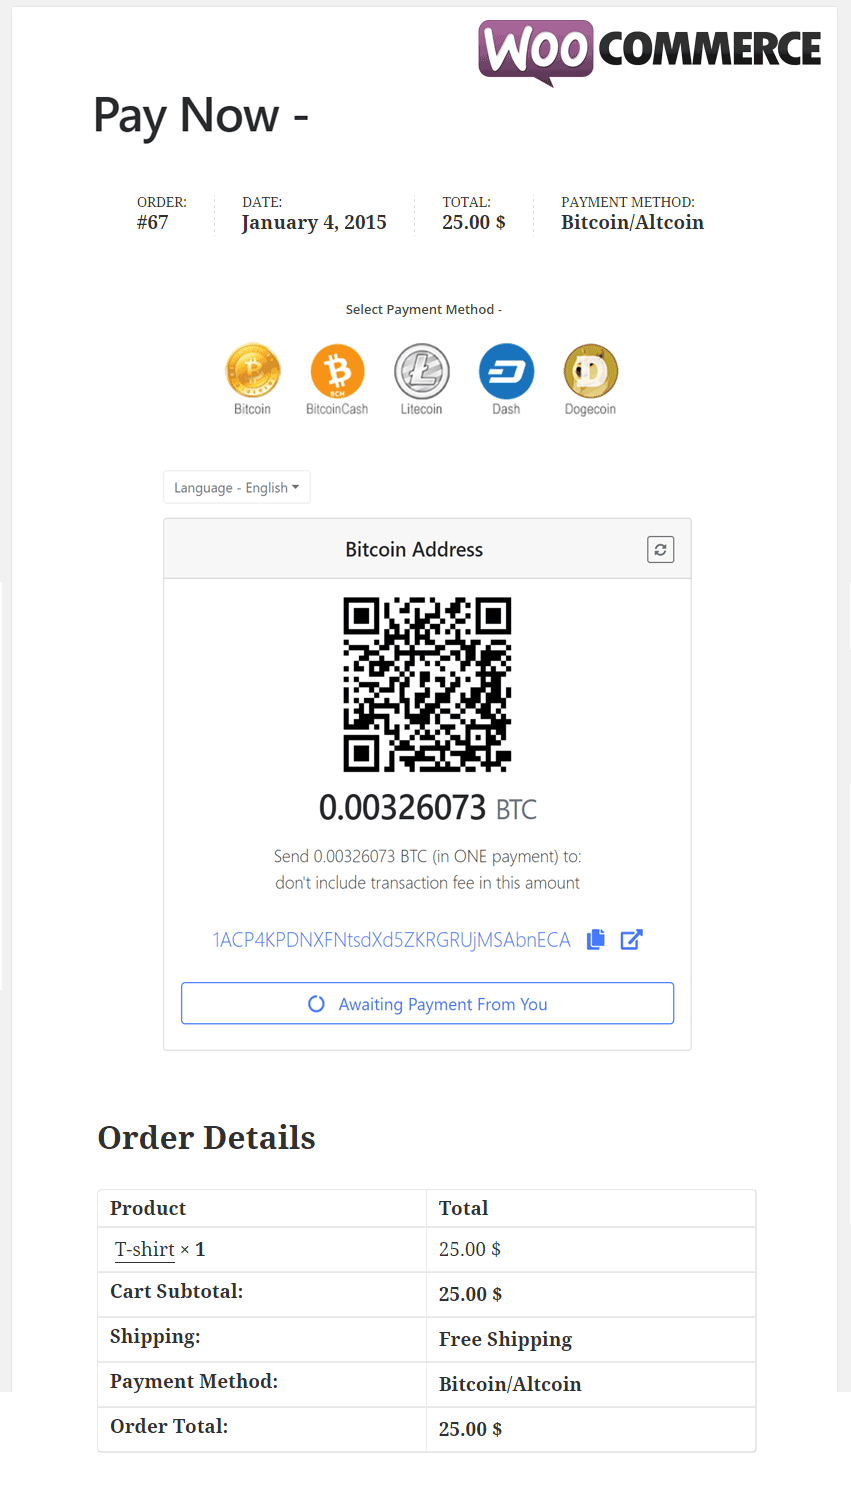
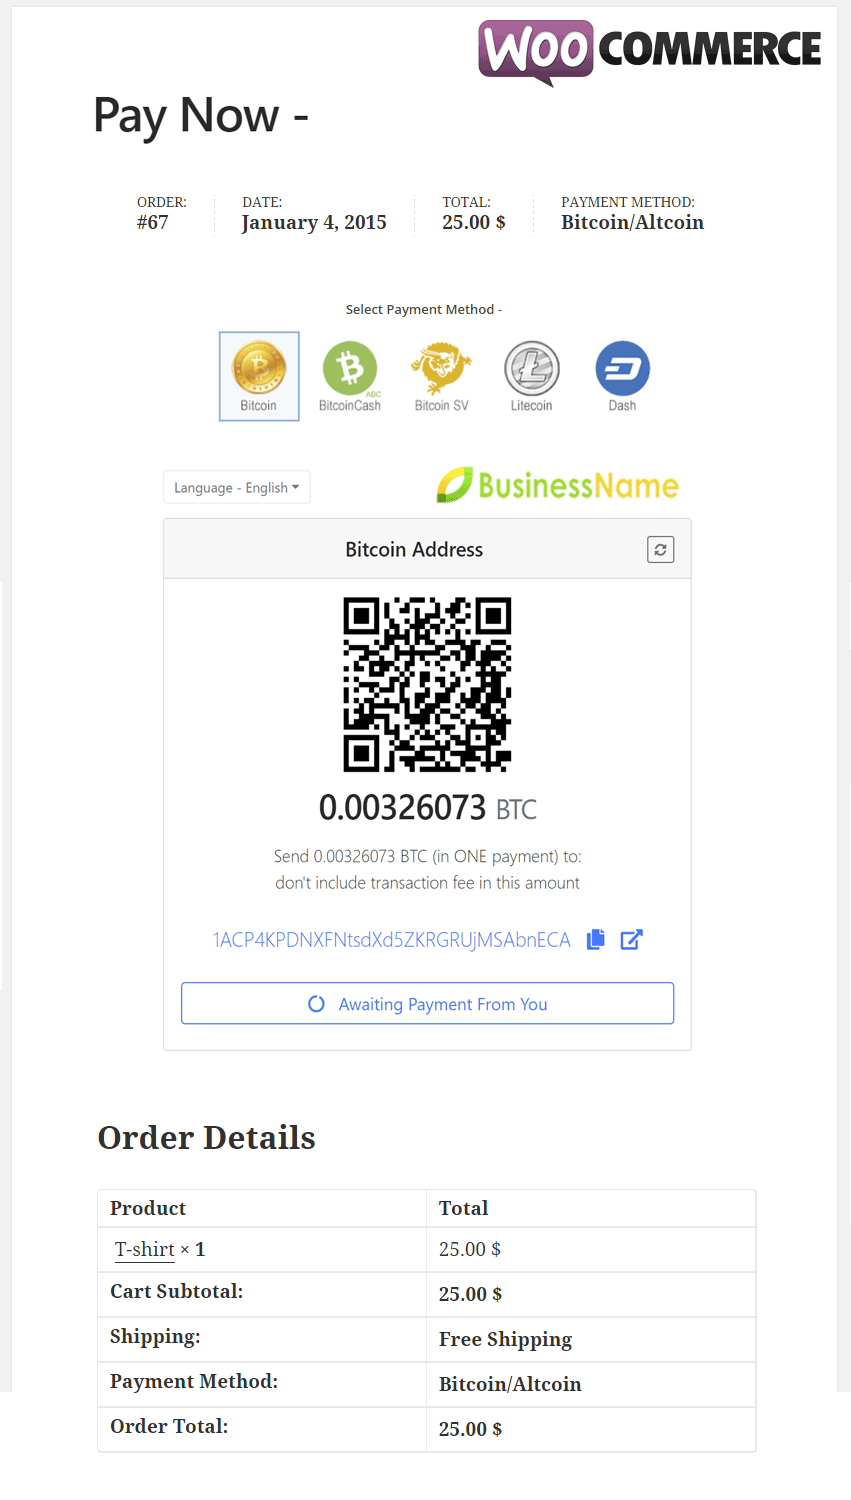
ver 1.2.5
Added Bitcoin SV (BSV/BCHSV). Tested on Wordpress 5.0. Recommended Update

Changed region(s): [[0.2444, 0.2147, 0.7638, 0.276], [0.5194, 0.3067, 0.7944, 0.3373]]

diff --git a/gourl-woocommerce.php b/gourl-woocommerce.php
@@ -2,8 +2,8 @@
 /*
 Plugin Name: 		GoUrl WooCommerce - Bitcoin Altcoin Payment Gateway Addon. White Label Solution
 Plugin URI: 		https://gourl.io/bitcoin-payments-woocommerce.html
-Description: 		Provides a <a href="https://gourl.io">GoUrl.io</a> Bitcoin/Altcoin Payment Gateway for <a href="https://wordpress.org/plugins/woocommerce/">WooCommerce 2.1+</a>. Support product prices in USD/EUR/etc and in Bitcoin/Altcoins directly; sends the amount straight to your business Bitcoin/Altcoin wallet. Convert your USD/EUR/etc prices to cryptocoins using Google/Poloniex Exchange Rates. Direct Integration on your website, no external payment pages opens (as other payment gateways offer). Accept Bitcoin, BitcoinCash, Litecoin, Dash, Dogecoin, Speedcoin, Reddcoin, Potcoin, Feathercoin, Vertcoin, Peercoin, MonetaryUnit payments online. You will see the bitcoin/altcoin payment statistics in one common table on your website. No Chargebacks, Global, Secure. All in automatic mode.
-Version: 			1.2.4
+Description: 		Provides a <a href="https://gourl.io">GoUrl.io</a> Bitcoin/Altcoin Payment Gateway for <a href="https://wordpress.org/plugins/woocommerce/">WooCommerce 2.1+</a>. Support product prices in USD/EUR/etc and in Bitcoin/Altcoins directly; sends the amount straight to your business Bitcoin/Altcoin wallet. Convert your USD/EUR/etc prices to cryptocoins using Google/Poloniex Exchange Rates. Direct Integration on your website, no external payment pages opens (as other payment gateways offer). Accept Bitcoin, BitcoinCash, BitcoinSV, Litecoin, Dash, Dogecoin, Speedcoin, Reddcoin, Potcoin, Feathercoin, Vertcoin, Peercoin, MonetaryUnit payments online. You will see the bitcoin/altcoin payment statistics in one common table on your website. No Chargebacks, Global, Secure. All in automatic mode.
+Version: 			1.2.5
 Author: 			GoUrl.io
 Author URI: 		https://gourl.io
 WC requires at least: 	2.1.0
@@ -21,7 +21,7 @@ if (!function_exists('gourl_wc_gateway_load') && !function_exists('gourl_wc_acti
 
 
 	DEFINE('GOURLWC', 'gourl-woocommerce');
-	DEFINE('GOURLWC_2WAY', json_encode(array("BTC", "BCH", "LTC", "DASH", "DOGE")));
+	DEFINE('GOURLWC_2WAY', json_encode(array("BTC", "BCH", "BSV", "LTC", "DASH", "DOGE")));
 
 
 	if (!defined('GOURLWC_AFFILIATE_KEY'))
@@ -151,6 +151,7 @@ if (!function_exists('gourl_wc_gateway_load') && !function_exists('gourl_wc_acti
 
 	            __( 'Bitcoin', GOURLWC );
 	            __( 'Bitcoincash', GOURLWC );
+	            __( 'Bitcoinsv', GOURLWC );
 	            __( 'Litecoin', GOURLWC );
 	            __( 'Doge', GOURLWC );
 	            __( 'DASH', GOURLWC ); // use in translation
@@ -162,7 +163,7 @@ if (!function_exists('gourl_wc_gateway_load') && !function_exists('gourl_wc_acti
 	            foreach ($arr2 as $k2 => $v2)
 	                foreach ($arr as $k => $v)
 	                    if (in_array($k, json_decode(GOURLWC_2WAY, true)))
-	                        $currencies[$k2.$k] = sprintf(__( '&#9658; Admin use %s, Users see LIVE prices in %s', GOURLWC ), ucwords($v2), str_replace("Bitcoincash", "Bitcoin Cash", ucwords($v)));
+	                        $currencies[$k2.$k] = sprintf(__( '&#9658; Admin use %s, Users see LIVE prices in %s', GOURLWC ), ucwords($v2), ucwords(str_ireplace("Bitcoin", "Bitcoin ", $v)));
 
 	    }
 
@@ -175,7 +176,7 @@ if (!function_exists('gourl_wc_gateway_load') && !function_exists('gourl_wc_acti
 
 
 	/*
-	 *  4. You set product prices in USD/EUR/etc in the admin panel, and display those prices in Cryptocurrency (Bitcoin, LTC, BCH, DASH, DOGE)  for front-end users
+	 *  4. You set product prices in USD/EUR/etc in the admin panel, and display those prices in Cryptocurrency (Bitcoin, BCH, BSV, LTC, DASH, DOGE)  for front-end users
 	 *  Admin user - if current_user_can('manage_options') return true
 	*/
 	function gourl_wc_currency_type( $currency = "" )
@@ -295,7 +296,7 @@ if (!function_exists('gourl_wc_gateway_load') && !function_exists('gourl_wc_acti
             }
             else
             {
-                // Get Altcoins Live Rates to BTC - DASH/BTC, LTC/BTC, BCH/BTC
+                // Get Altcoins Live Rates to BTC - DASH/BTC, LTC/BTC, BCH/BTC, BSV/BTC
                 if (!isset($rates[$v]) || !$rates[$v]) $rates[$v] = gourl_altcoin_btc_price ($v);
 
                 $priceAlt = 0;
@@ -339,9 +340,9 @@ if (!function_exists('gourl_wc_gateway_load') && !function_exists('gourl_wc_acti
             elseif (function_exists('get_woocommerce_currency'))
             {
                 $currency = $arr["user"]; // user visible currency
-                if (in_array($currency, array("BTC", "BCH", "DASH")) && !in_array($decimals, array(3,4))) $decimals = 4;
-                if (in_array($currency, array("LTC")) && !in_array($decimals, array(2,3)))                $decimals = 3;
-                if (in_array($currency, array("DOGE")) && !in_array($decimals, array(0)))                 $decimals = 0;
+                if (in_array($currency, array("BTC", "BCH", "BSV", "DASH")) && !in_array($decimals, array(3,4))) $decimals = 4;
+                if (in_array($currency, array("LTC")) && !in_array($decimals, array(2,3)))                       $decimals = 3;
+                if (in_array($currency, array("DOGE")) && !in_array($decimals, array(0)))                        $decimals = 0;
             }
         }
 
@@ -629,7 +630,7 @@ if (!function_exists('gourl_wc_gateway_load') && !function_exists('gourl_wc_acti
 
 		private $payments           = array();
 		private $languages          = array();
-		private $coin_names         = array('BTC' => 'bitcoin', 'BCH' => 'bitcoincash', 'LTC' => 'litecoin', 'DASH' => 'dash', 'DOGE' => 'dogecoin', 'SPD' => 'speedcoin', 'RDD' => 'reddcoin', 'POT' => 'potcoin', 'FTC' => 'feathercoin', 'VTC' => 'vertcoin', 'PPC' => 'peercoin', 'UNIT' => 'universalcurrency', 'MUE' => 'monetaryunit');
+		private $coin_names         = array('BTC' => 'bitcoin', 'BCH' => 'bitcoincash', 'BSV' => 'bitcoinsv', 'LTC' => 'litecoin', 'DASH' => 'dash', 'DOGE' => 'dogecoin', 'SPD' => 'speedcoin', 'RDD' => 'reddcoin', 'POT' => 'potcoin', 'FTC' => 'feathercoin', 'VTC' => 'vertcoin', 'PPC' => 'peercoin', 'UNIT' => 'universalcurrency', 'MUE' => 'monetaryunit');
 		private $statuses           = array('processing' => 'Processing Payment', 'on-hold' => 'On Hold', 'completed' => 'Completed');
 		private $cryptorices        = array();
 		private $showhidemenu       = array('show' => 'Show Menu', 'hide' => 'Hide Menu');
@@ -639,7 +640,7 @@ if (!function_exists('gourl_wc_gateway_load') && !function_exists('gourl_wc_acti
 		private $url3               = '';
 		private $cointxt            = '';
 
-		private $logo               = '';
+		private $logo               =  0;
 		private $emultiplier        = '';
 		private $ostatus            = '';
 		private $ostatus2           = '';
@@ -675,9 +676,9 @@ if (!function_exists('gourl_wc_gateway_load') && !function_exists('gourl_wc_acti
 
 			if (class_exists('gourlclass') && defined('GOURL') && defined('GOURL_ADMIN') && is_object($gourl))
 			{
-				if (true === version_compare(GOURL_VERSION, '1.4.12', '<'))
+				if (true === version_compare(GOURL_VERSION, '1.4.15', '<'))
 				{
-					if ($enabled) $this->method_description .= '<div class="error"><p><b>' .sprintf(__( "Your GoUrl Bitcoin Gateway <a href='%s'>Main Plugin</a> version is too old. Requires 1.4.12 or higher version. Please <a href='%s'>update</a> to latest version.", GOURLWC ), GOURL_ADMIN.GOURL, $this->mainplugin_url)."</b> &#160; &#160; &#160; &#160; " .
+					if ($enabled) $this->method_description .= '<div class="error"><p><b>' .sprintf(__( "Your GoUrl Bitcoin Gateway <a href='%s'>Main Plugin</a> version is too old. Requires 1.4.15 or higher version. Please <a href='%s'>update</a> to latest version.", GOURLWC ), GOURL_ADMIN.GOURL, $this->mainplugin_url)."</b> &#160; &#160; &#160; &#160; " .
 							  __( 'Information', GOURLWC ) . ": &#160; <a href='https://gourl.io/bitcoin-wordpress-plugin.html'>".__( 'Main Plugin Homepage', GOURLWC )."</a> &#160; &#160; &#160; " .
 							  "<a href='https://wordpress.org/plugins/gourl-bitcoin-payment-gateway-paid-downloads-membership/'>".__( 'WordPress.org Plugin Page', GOURLWC )."</a></p></div>";
 				}
@@ -740,8 +741,8 @@ if (!function_exists('gourl_wc_gateway_load') && !function_exists('gourl_wc_acti
 			$this->init_settings();
 			$this->gourl_settings();
 
-			// Logo
-			//$this->icon = apply_filters('woocommerce_gourlpayments_icon', 'https://gourl.io/images/'.$this->logo."/payments.png");
+			// Logo on Checkout Page
+			if ($this->logo) $this->icon = apply_filters('woocommerce_gourlpayments_icon', plugins_url("/images/crypto".$this->logo.".png", __FILE__));
 
 
 			// Hooks
@@ -798,7 +799,7 @@ if (!function_exists('gourl_wc_gateway_load') && !function_exists('gourl_wc_acti
 
 
 
-	    	if (!in_array($this->logo, $this->coin_names) && $this->logo != 'global')                   $this->logo = 'bitcoin';
+	    	if (!in_array($this->logo, array(0,1,2,3,4,5, 6)))                                          $this->logo = 0;
 	    	if (!$this->emultiplier || !is_numeric($this->emultiplier) || $this->emultiplier < 0.01)    $this->emultiplier = 1;
 	    	if (!is_numeric($this->iconwidth) || $this->iconwidth < 30 || $this->iconwidth > 250)       $this->iconwidth = 60;
 	    	if (!is_numeric($this->qrcodesize) || $this->qrcodesize < 0 || $this->qrcodesize > 500)     $this->qrcodesize = 200;
@@ -822,9 +823,15 @@ if (!function_exists('gourl_wc_gateway_load') && !function_exists('gourl_wc_acti
 	   	public function init_form_fields()
 	    {
 
-	    	$logos = array('global' => __( "GoUrl default logo - 'Global Payments'", GOURLWC ));
-	    	foreach ($this->coin_names as $v) $logos[$v] = sprintf(__( "GoUrl logo with text - '%s Payments'", GOURLWC ), __( ucfirst($v), GOURLWC ));
-
+	    	$logos = array();
+	    	$logos[0] = __( "No Logo" );
+	    	$logos[1] = __( "1. Logo with text - Pay with Cryptocurrency'", GOURLWC );
+	    	$logos[2] = __( "2. Bitcoin Logo", GOURLWC );
+	    	$logos[3] = __( "3. Bitcoin Logo with text", GOURLWC );
+	    	$logos[4] = __( "4. Light Logo with text - Crypto Accepted", GOURLWC );
+	    	$logos[5] = __( "5. Dark Logo with text - Crypto Accepted", GOURLWC );
+	    	$logos[6] = __( "6. Crypto Icons", GOURLWC );
+	    	
 	    	$this->form_fields = array(
                     'enabled'		=> array(
                     'title'   	  	=> __( 'Enable/Disable', GOURLWC ),
@@ -844,15 +851,13 @@ if (!function_exists('gourl_wc_gateway_load') && !function_exists('gourl_wc_acti
                     'default'     	=> trim(sprintf(__( 'Secure, anonymous payment with virtual currency - %s', GOURLWC ), implode(", ", $this->payments)), " -") . ". <a target='_blank' href='https://bitcoin.org/'>" . __( 'What is bitcoin?', GOURLWC ) . "</a>",
                     'description' 	=> __( 'Payment method description that the customer will see on your checkout', GOURLWC )
                 ),
-                /*
-                'logo' 	=> array(
-                    'title'       	=> __( 'Logo', GOURLWC ),
+                    'logo' 	        => array(
+                    'title'       	=> __( 'Two Logo (checkout and paymentbox)', GOURLWC ) . '<br><img width="35" alt="new" src="'.plugins_url('/images/new.png', __FILE__).'" style="float:left;margin:3px 8px">',
                     'type'        	=> 'select',
                     'options'  		=> $logos,
                     'default'     	=> 'bitcoin',
-                    'description' 	=> __( 'Payment method logo that the customer will see on your checkout', GOURLWC )
+                    'description' 	=> sprintf(__( 'Payment method logo that the customer will see on your checkout. <a href="%s">See logo examples &#187;</a>', GOURLWC ), plugins_url("/images/woo_icons_examples.png", __FILE__)) . "<br><br>" . "<img height='30px' src='".plugins_url('/images/your_logo.png', __FILE__)."' border='0'> &#160; &#160; <b>" . sprintf(__( 'Your Company Logo for Cryptocurrency Payment Box you can <a href="%s">setup here &#187;</a>', GOURLWC ), admin_url('admin.php?page=gourlsettings#st')) . "</b>"
                 ),
-                */
                     'emultiplier' 	=> array(
                     'title' 		=> __('Exchange Rate Multiplier', GOURLWC ),
                     'type' 			=> 'text',
@@ -862,7 +867,7 @@ if (!function_exists('gourl_wc_gateway_load') && !function_exists('gourl_wc_acti
                     'advanced' 		=> array(
                     'title'       	=> "<br>".__( 'Advanced options', GOURLWC ),
                     'type'        	=> 'title',
-                    'description' 	=> '<img width="45" height="35" alt="new" src="https://gourl.io/images/new.png" style="float:left;margin:3px 8px"> '.sprintf(__("Your shop can display product prices in Bitcoin/BCH/DASH/LTC/DOGE also.<br>Simple select 'Currency' - <a href='%s'>'Admin use USD/EUR/etc, users see Live Prices in Bitcoin/Altcoin'</a>", GOURLWC ), admin_url('admin.php?page=wc-settings&tab=general#woocommerce_currency'))."&#160; --> &#160; <a href='https://gourl.io/images/woocommerce/woocommerce-usd-btc.html' target='_blank'>".__("see screenshot", GOURLWC)."</a><br><br>"
+                    'description' 	=> '<img width="45" height="35" alt="new" src="'.plugins_url('/images/new.png', __FILE__).'" style="float:left;margin:3px 8px"> '.sprintf(__("Your shop can display product prices in Bitcoin/BCH/BSV/DASH/LTC/DOGE also.<br>Simple select 'Currency' - <a href='%s'>'Admin use USD/EUR/etc, users see Live Prices in Bitcoin/Altcoin'</a>", GOURLWC ), admin_url('admin.php?page=wc-settings&tab=general#woocommerce_currency'))."&#160; --> &#160; <a href='https://gourl.io/images/woocommerce/woocommerce-usd-btc.html' target='_blank'>".__("see screenshot", GOURLWC)."</a><br><br>"
                 ),
                     'ostatus' 		=> array(
                     'title' 		=> __('Order Status - Cryptocoin Payment Received', GOURLWC ),
@@ -879,7 +884,7 @@ if (!function_exists('gourl_wc_gateway_load') && !function_exists('gourl_wc_acti
                     'description' 	=> __("About one hour after the payment is received, the bitcoin transaction should get 6 confirmations (for transactions using other cryptocoins ~ 20-30min).<br>A transaction confirmation is needed to prevent double spending of the same money", GOURLWC)
                 ),
                     'cryptoprice' => array(
-                    'title' 		=> __('Crypto Price on Product Page', GOURLWC ) . '<br><img width="35" alt="new" src="https://gourl.io/images/new.png" style="float:left;margin:3px 8px">',
+                    'title' 		=> __('Crypto Price on Product Page', GOURLWC ) . '<br><img width="35" alt="new" src="'.plugins_url('/images/new.png', __FILE__).'" style="float:left;margin:3px 8px">',
                     'type' 			=> 'select',
                     'options' 		=> $this->cryptorices,
                     'default' 		=> '',
@@ -909,7 +914,7 @@ if (!function_exists('gourl_wc_gateway_load') && !function_exists('gourl_wc_acti
                     'mobstyle'			=> array(
                     'title'       	=> __( 'Mobile Friendly Payment Box Style', GOURLWC ),
                     'type'        	=> 'title',
-                    'description' 	=> '<img width="45" alt="new" src="https://gourl.io/images/new.png" style="float:left;margin:3px 8px">' . sprintf(__( "Additional options for Mobile Friendly Payment Box (not iFrame).<br>Box Color Theme (<a href='%s'>white</a> / <a href='%s'>black</a> / <a href='%s'>sketchy</a> / blue / red / etc) you can change <a href='%s'>here &#187;</a> &#160; Payment Box <a target='_blank' href='%s'>Live Demo &#187;</a>", GOURLWC ), "https://gourl.io/images/woocommerce/screenshot-3.png", "https://gourl.io/images/woocommerce/screenshot-9.png", "https://gourl.io/images/woocommerce/screenshot-10.png", $this->url, "https://gourl.io/lib/examples/example_customize_box.php?alang=en#hacrypto") . "<br><br>"
+                    'description' 	=> '<img width="45" alt="new" src="'.plugins_url('/images/new.png', __FILE__).'" style="float:left;margin:3px 8px">' . sprintf(__( "Additional options for Mobile Friendly Payment Box (not iFrame).<br>Box Color Theme (<a href='%s'>white</a> / <a href='%s'>black</a> / <a href='%s'>sketchy</a> / blue / red / etc) you can change <a href='%s'>here &#187;</a> &#160; Payment Box <a target='_blank' href='%s'>Live Demo &#187;</a>", GOURLWC ), "https://gourl.io/images/woocommerce/screenshot-3.png", "https://gourl.io/images/woocommerce/screenshot-9.png", "https://gourl.io/images/woocommerce/screenshot-10.png", $this->url, "https://gourl.io/lib/examples/example_customize_box.php?alang=en#hacrypto") . "<br><br>"
                 ),
                     'customtext' 	=> array(
                     'title'       	=> __( 'Custom Payment Text', GOURLWC ),
@@ -999,7 +1004,7 @@ if (!function_exists('gourl_wc_gateway_load') && !function_exists('gourl_wc_acti
             $btc = gourl_bitcoin_live_price ($arr["admin"]); // 1BTC bitcoin price  in USD/EUR/AUD/RUB/GBP/etc.
 
             if ($arr["user"] == "BTC") $live = $btc;
-            elseif (in_array($arr["user"], json_decode(GOURLWC_2WAY, true))) $live = $btc * gourl_altcoin_btc_price ($arr["user"]); // atcoins 1LTC/1DASH/1BCH/1DOGE  in USD/EUR/AUD/RUB/GBP/etc.
+            elseif (in_array($arr["user"], json_decode(GOURLWC_2WAY, true))) $live = $btc * gourl_altcoin_btc_price ($arr["user"]); // atcoins 1LTC/1DASH/1BCH/1BSV/1DOGE  in USD/EUR/AUD/RUB/GBP/etc.
 
             if ($live > 0)
             {
@@ -1013,7 +1018,7 @@ if (!function_exists('gourl_wc_gateway_load') && !function_exists('gourl_wc_acti
         {
             $btc = gourl_bitcoin_live_price ("USD"); // USD
             if ($arr["user"] == "BTC") $live = $btc;
-            else $live = $btc * gourl_altcoin_btc_price ($arr["user"]); // atcoins 1LTC/1DASH/1BCH/1DOGE  in USD
+            else $live = $btc * gourl_altcoin_btc_price ($arr["user"]); // atcoins 1LTC/1DASH/1BCH/1BSV/1DOGE  in USD
 
             $totalFiat = round(floatval($order_total) * floatval($live), 2);
 
@@ -1095,10 +1100,10 @@ if (!function_exists('gourl_wc_gateway_load') && !function_exists('gourl_wc_acti
 			echo '<br><h2>' . __( 'Information', GOURLWC ) . '</h2>' . PHP_EOL;
 			echo "<div class='woocommerce-error'>".sprintf(__( "Please try a different payment method. Admin need to install and activate wordpress plugin <a href='%s'>GoUrl Bitcoin Gateway for Wordpress</a> to accept Bitcoin/Altcoin Payments online.", GOURLWC), "https://gourl.io/bitcoin-wordpress-plugin.html")."</div>";
 		}
-		elseif (!$this->payments || !$this->defcoin || true === version_compare(WOOCOMMERCE_VERSION, '2.1', '<') || true === version_compare(GOURL_VERSION, '1.4.12', '<'))
+		elseif (!$this->payments || !$this->defcoin || true === version_compare(WOOCOMMERCE_VERSION, '2.1', '<') || true === version_compare(GOURL_VERSION, '1.4.15', '<'))
 		{
 			echo '<br><h2>' . __( 'Information', GOURLWC ) . '</h2>' . PHP_EOL;
-			echo  "<div class='woocommerce-error'>".sprintf(__( 'Sorry, but there was an error processing your order. Please try a different payment method or contact us if you need assistance (Bitcoin Gateway Plugin v1.4.12+ not configured / %s not activated).', GOURLWC ),(!$this->payments || !$this->defcoin || !isset($this->coin_names[$order_currency])? $this->title : $this->coin_names[$order_currency]))."</div>";
+			echo  "<div class='woocommerce-error'>".sprintf(__( 'Sorry, but there was an error processing your order. Please try a different payment method or contact us if you need assistance (Bitcoin Gateway Plugin v1.4.15+ not configured / %s not activated).', GOURLWC ),(!$this->payments || !$this->defcoin || !isset($this->coin_names[$order_currency])? $this->title : $this->coin_names[$order_currency]))."</div>";
 		}
 		else
 		{
@@ -1269,7 +1274,7 @@ if (!function_exists('gourl_wc_gateway_load') && !function_exists('gourl_wc_acti
 	    	    {
 	    	        $btc = gourl_bitcoin_live_price ("USD"); // USD
 	    	        if ($currencies["admin"] == "BTC") $live = $btc;
-	    	        else $live = $btc * gourl_altcoin_btc_price ($currencies["admin"]); // atcoins 1LTC/1DASH/1BCH/1DOGE  in USD
+	    	        else $live = $btc * gourl_altcoin_btc_price ($currencies["admin"]); // atcoins 1LTC/1DASH/1BCH/1BSV/1DOGE  in USD
 
 	    	        $v = round(floatval($payment_details["amountusd"]) / floatval($live), 5);
 
@@ -1391,6 +1396,6 @@ if (!function_exists('gourl_wc_gateway_load') && !function_exists('gourl_wc_acti
 
 
  }
- // end gourl_wc_gateway_load()       
+ // end gourl_wc_gateway_load()     
 
 }

diff --git a/readme.md b/readme.md
@@ -2,19 +2,19 @@
 GoUrl WooCommerce - Bitcoin Altcoin Payment Gateway Addon
 -----------------------------------------------------------
 
-Version 1.2.4
+Version 1.2.5
 
 **Wordpress Plugin provides a Bitcoin/Altcoin Payment Gateway for WooCommerce 2.1+ or higher.**
 
-White Label Solution. Accept Bitcoin, BitcoinCash, Litecoin, Dash, Dogecoin, Speedcoin, Reddcoin, Potcoin, Feathercoin, Vertcoin, Peercoin, MonetaryUnit on Website Online
+White Label Solution. Accept Bitcoin, BitcoinCash, BitcoinSV, Litecoin, Dash, Dogecoin, Speedcoin, Reddcoin, Potcoin, Feathercoin, Vertcoin, Peercoin, MonetaryUnit on Website Online
 
 * Author URI: [https://gourl.io](https://gourl.io)
 * Plugin Page: [https://gourl.io/bitcoin-payments-woocommerce.html](https://gourl.io/bitcoin-payments-woocommerce.html)
 * Wordpress Page: [https://wordpress.org/plugins/gourl-woocommerce-bitcoin-altcoin-payment-gateway-addon](https://wordpress.org/plugins/gourl-woocommerce-bitcoin-altcoin-payment-gateway-addon/)
 * Screenshots: [https://gourl.io/bitcoin-payments-woocommerce.html#screenshot](https://gourl.io/bitcoin-payments-woocommerce.html#screenshot)
 * Requires at least: Wordpress 3.5 and WooCommerce 2.1
-* Tested up to: Wordpress 4.9 and WooCommerce 3.4   
-* Stable Tag: 1.2.4
+* Tested up to: Wordpress 5.0 and WooCommerce 3.5
+* Stable Tag: 1.2.5
 * License: GNU Version 2 or Any Later Version
 
 .
@@ -27,7 +27,7 @@ White Label Solution. Accept Bitcoin, BitcoinCash, Litecoin, Dash, Dogecoin, Spe
 * Provides a Cryptocurrency Payment Gateway for [WooCommerce 2.1 or higher](https://wordpress.org/plugins/woocommerce/)
 * No Monthly Fee, No Bank Account Needed, Transaction Fee from 0%
 * No Chargebacks, Global, Secure. All in automatic mode.
-* Accept Bitcoin, BitcoinCash, Litecoin, Dash, Dogecoin, Speedcoin, Reddcoin, Potcoin, Feathercoin, Vertcoin, Peercoin, MonetaryUnit payments in WooCommerce
+* Accept Bitcoin, BitcoinCash, BitcoinSV, Litecoin, Dash, Dogecoin, Speedcoin, Reddcoin, Potcoin, Feathercoin, Vertcoin, Peercoin, MonetaryUnit payments in WooCommerce
 * Mobile Friendly customizable Payment Box; Direct Integration on your website, no external payment pages opens (as other payment gateways offer)
 * White Label Solution with Your Logo ([see Demo](https://gourl.io/lib/examples/box_only.php)) - user browser receive payment data from your server/website only; your server receive data from our server. 
 * Support WooCommerce Subscriptions (subscriptions plugin on [Github](https://github.com/wp-premium/woocommerce-subscriptions))
@@ -112,4 +112,4 @@ Payment Box Styles
 
 
 # ![WooCommerce-Payment-Box-3](https://gourl.io/images/woocommerce/screenshot-11.png)
-         
+
